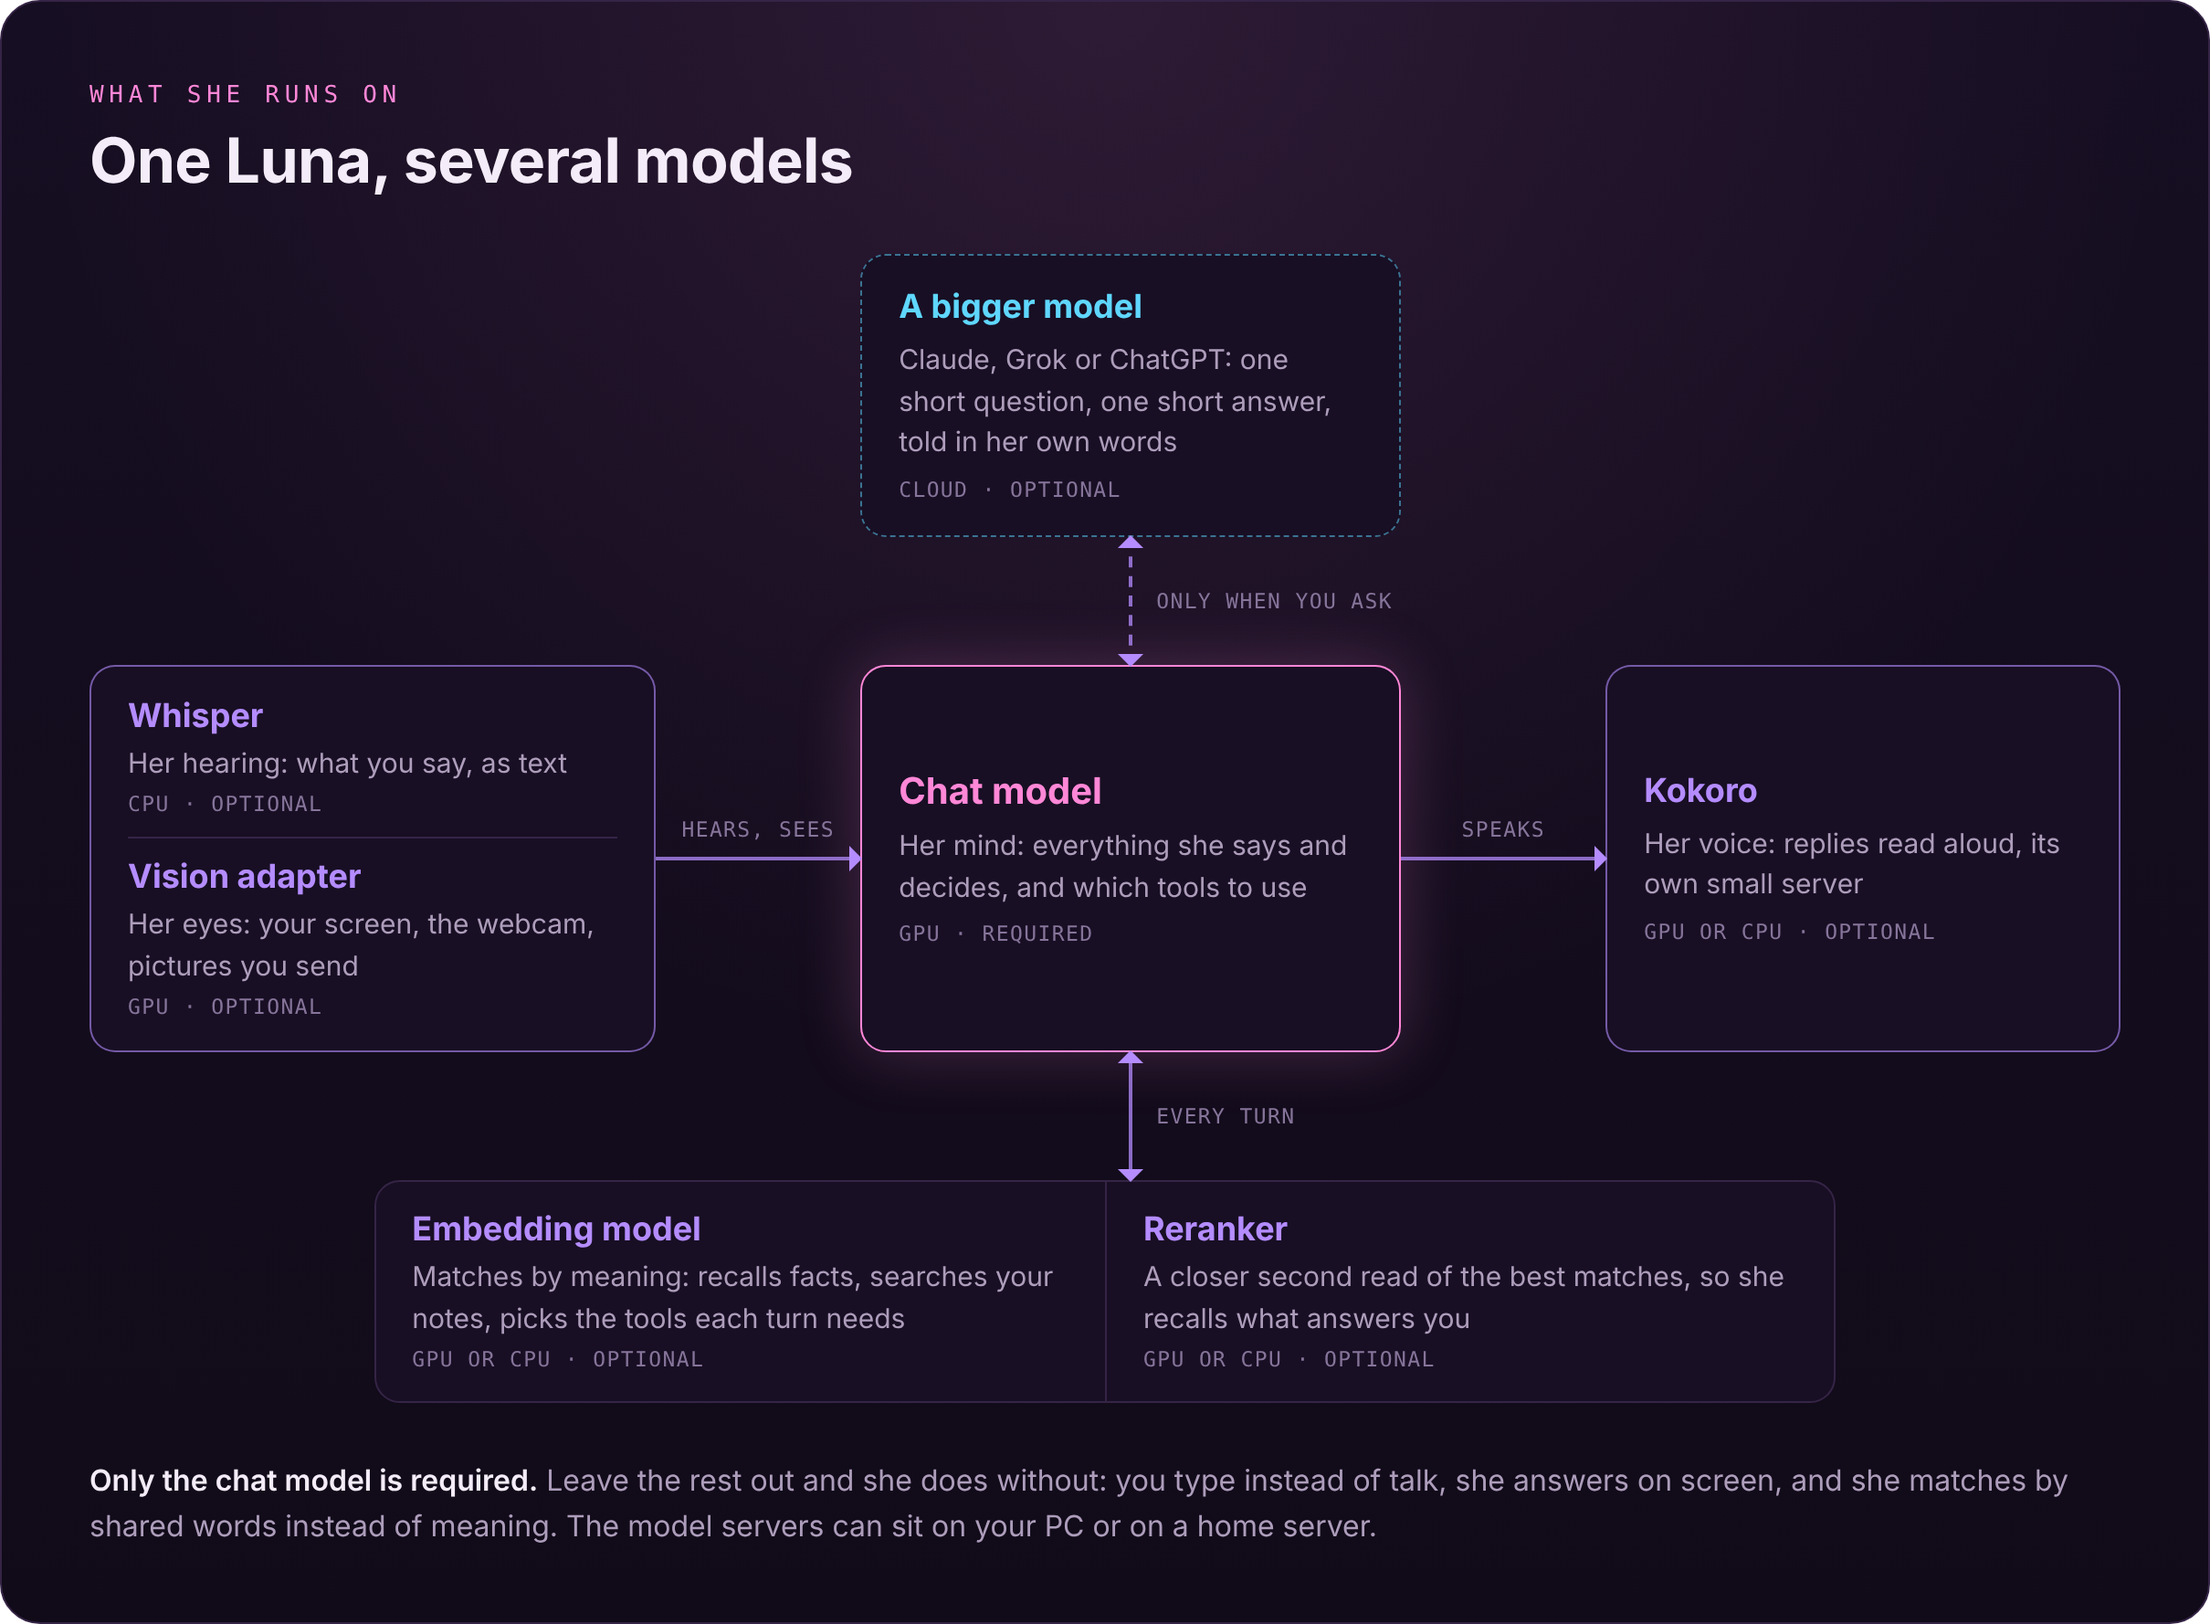
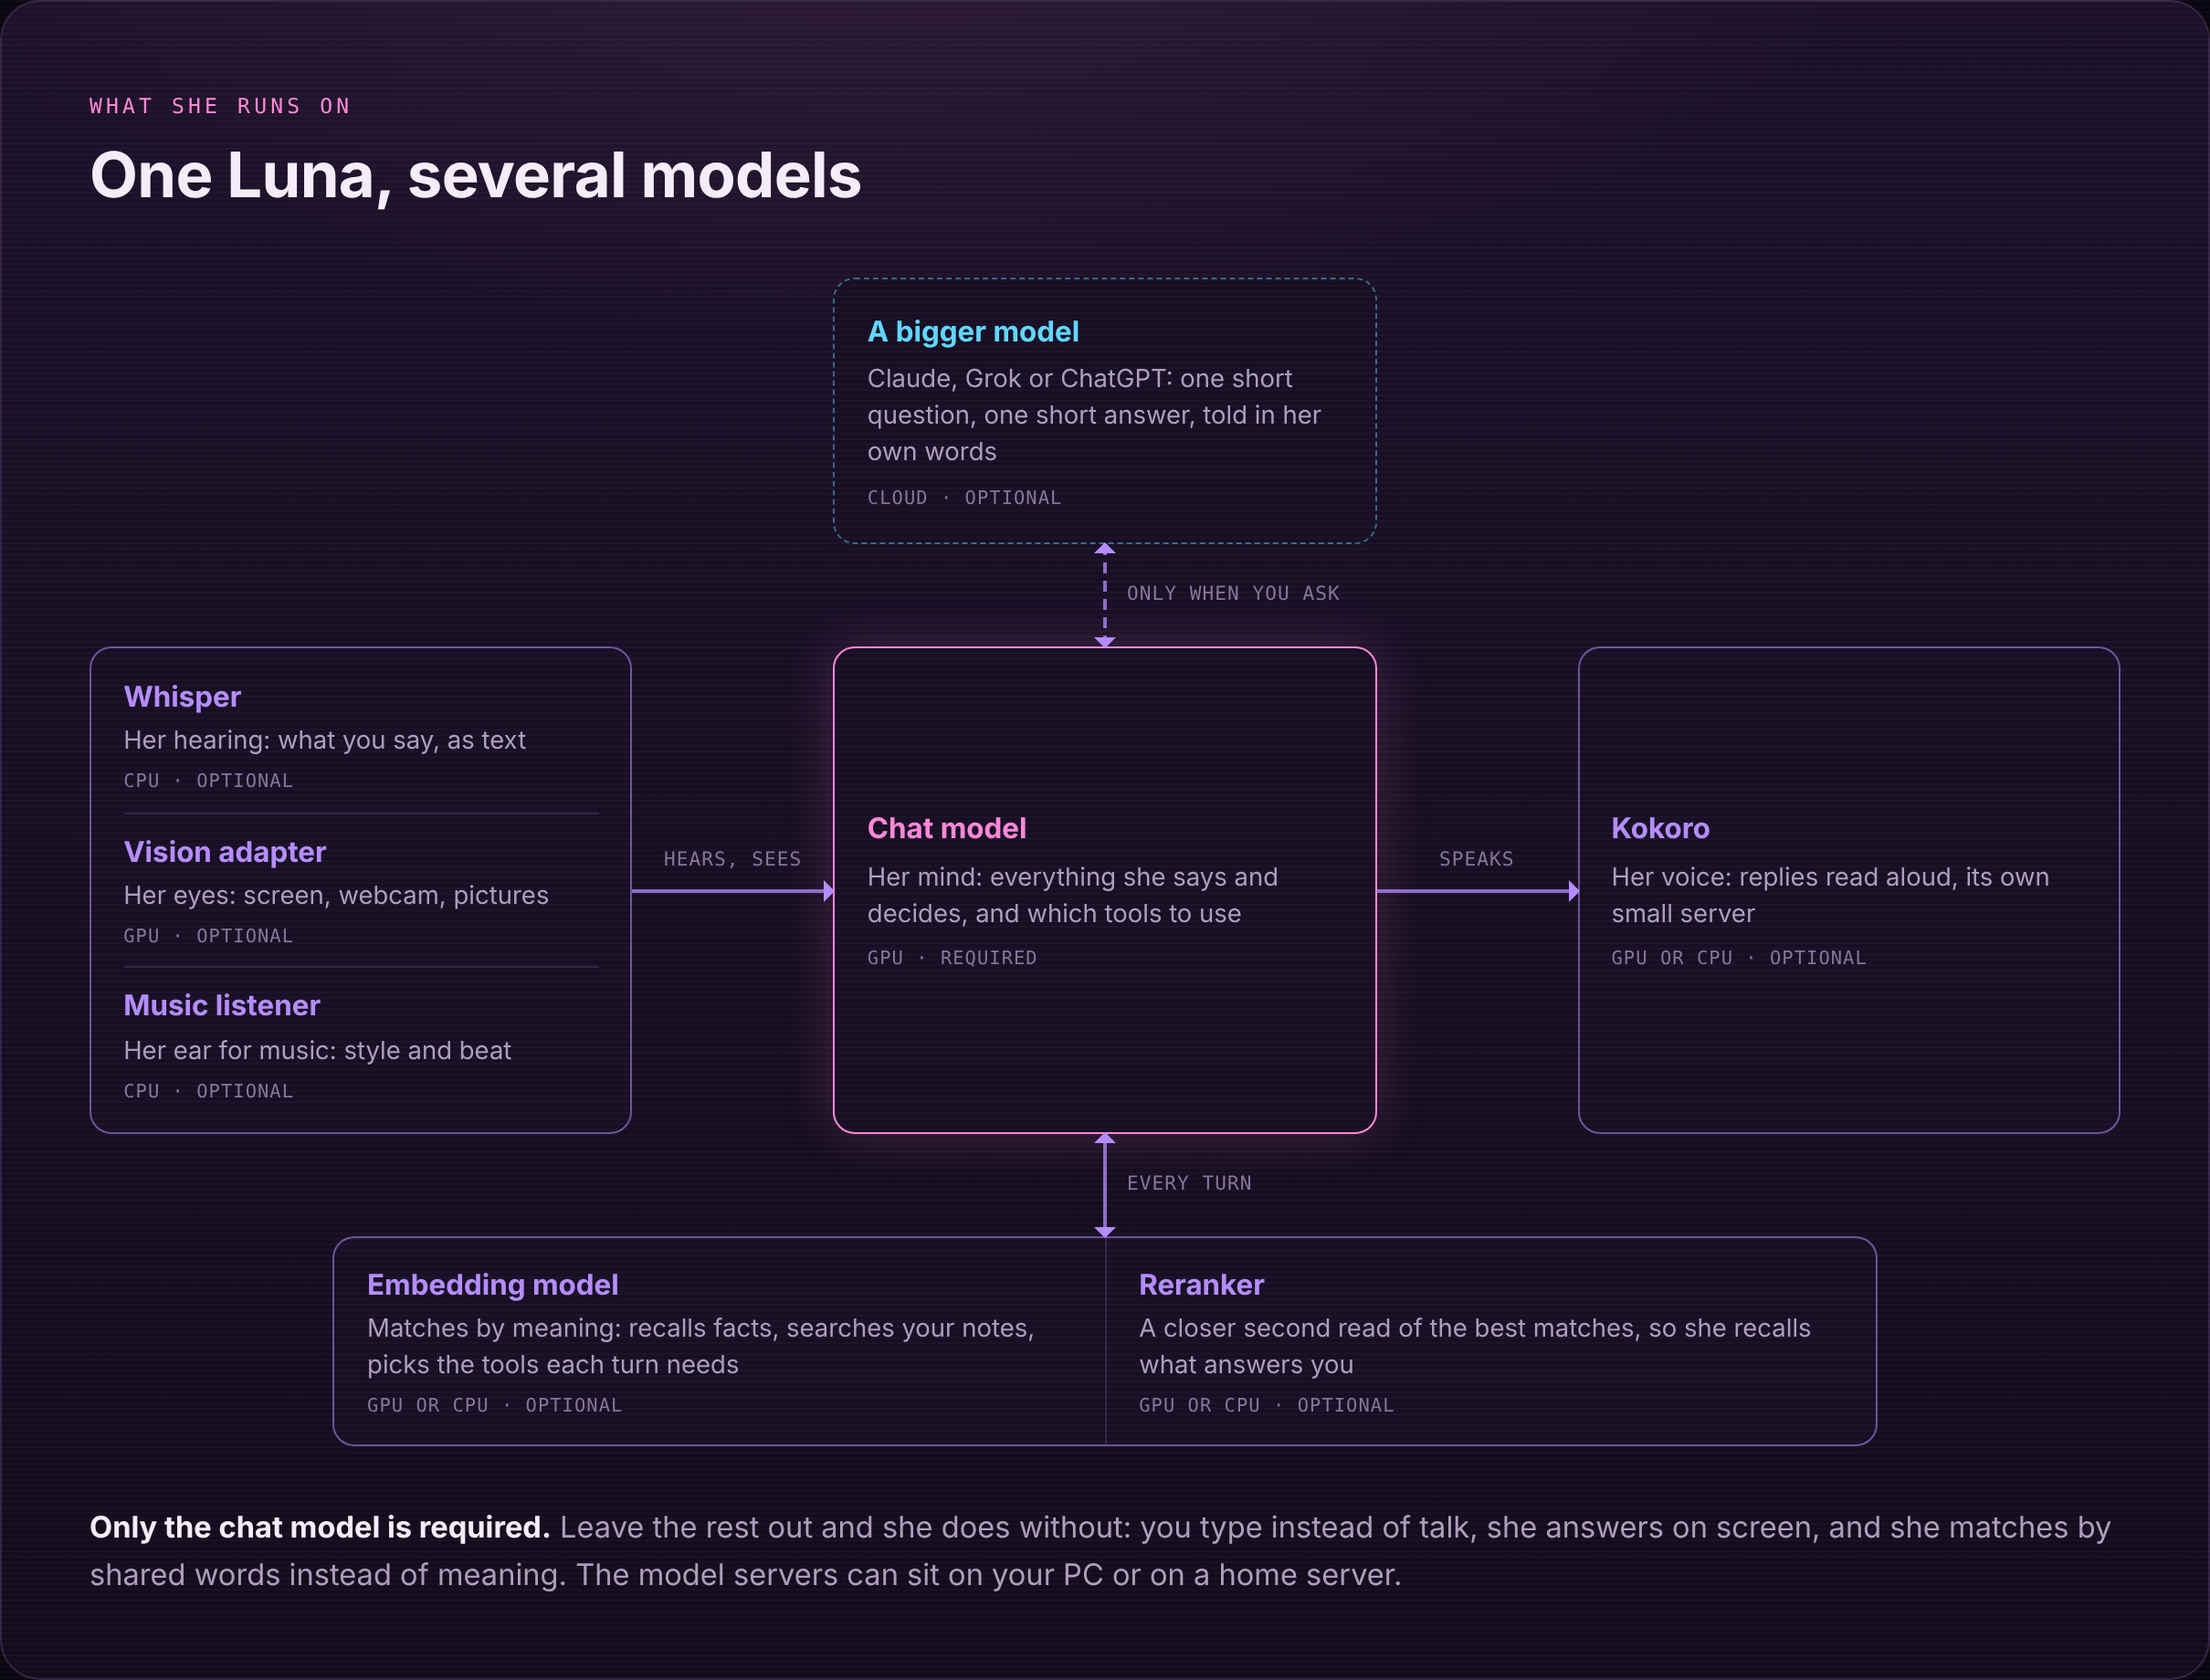
README: models graph with the music listener

diff --git a/README.md b/README.md
@@ -37,7 +37,7 @@ grew from there.
 
 <img width="1210" alt="The ideal setup, one mind for the whole house: Luna on your PC in the middle, with your mic, speakers and screen, her memory, moods, people and tools. A model server with a big graphics card runs her models over the home network. Phones and tablets around the house are stations, paired over home Wi-Fi. Her tools reach home automation, security (doors, locks and what's on your network) and your NAS and servers. Start with one PC that can run her model; everything around it is optional." src="assets/luna-setup.png" />
 
-<img width="1210" alt="How Luna's models work together. The chat model is her mind, in the middle, and the only one required. Whisper (her hearing, on the CPU) and the vision adapter (her eyes) feed what you say and show into it. Kokoro speaks her replies. Every turn, the embedding model and the reranker find the facts, notes and tools that fit. Only when you ask, she can put one short question to a bigger cloud model: Claude, Grok or ChatGPT. Leave the optional parts out and she does without." src="assets/luna-models.png" />
+<img width="1210" alt="How Luna's models work together. The chat model is her mind, in the middle, and the only one required. Whisper (her hearing, on the CPU), the vision adapter (her eyes) and the music listener (the style and beat of what is playing) feed what you say, show and play into it. Kokoro speaks her replies. Every turn, the embedding model and the reranker find the facts, notes and tools that fit. Only when you ask, she can put one short question to a bigger cloud model: Claude, Grok or ChatGPT. Leave the optional parts out and she does without." src="assets/luna-models.png" />
 
 <img width="1210" alt="How Luna's memory works on each turn. Your message comes in at the top. In the middle is this turn: everything she knows while she answers, put together fresh each time, and only what fits goes along. Always along, on the left: who you are (written from your facts and what she's concluded), the conversation so far and her open projects. Found by meaning, on the right: the facts that fit (read again by the reranker), her pages, notes on past sessions and lessons that fit, passages from your own notes, and ask my memory, a question she asks herself mid-answer. Afterwards, underneath: she saves facts on purpose with when they were true and logs every change, writes notes on a conversation when it goes quiet, reads conversations back between talks and notes what she concludes about each person, and overnight learns lessons, tidies facts, merges her conclusions and lets old guesses fade. Her memory stays on your PC in plain SQLite files." src="assets/luna-memory.png" />
 
